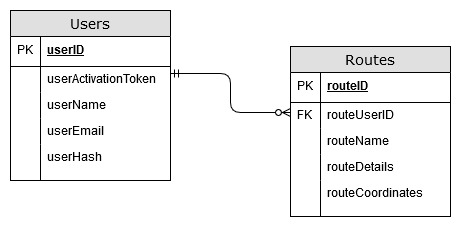
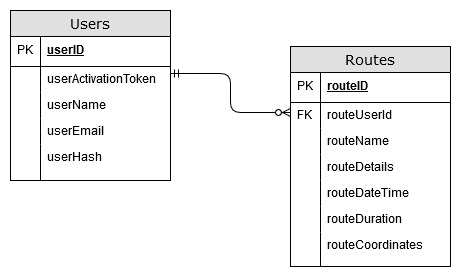
add routeDateTime & routeDuration

diff --git a/epic/conceptual-model.php b/epic/conceptual-model.php
@@ -31,6 +31,8 @@
 	<li>routeUserId (FK)</li>
 	<li>routeName</li>
 	<li>routeDetails</li>
+	<li>routeDateTime</li>
+	<li>routeDuration</li>
 	<li>routeCoordinates</li>
 </ul>
 
